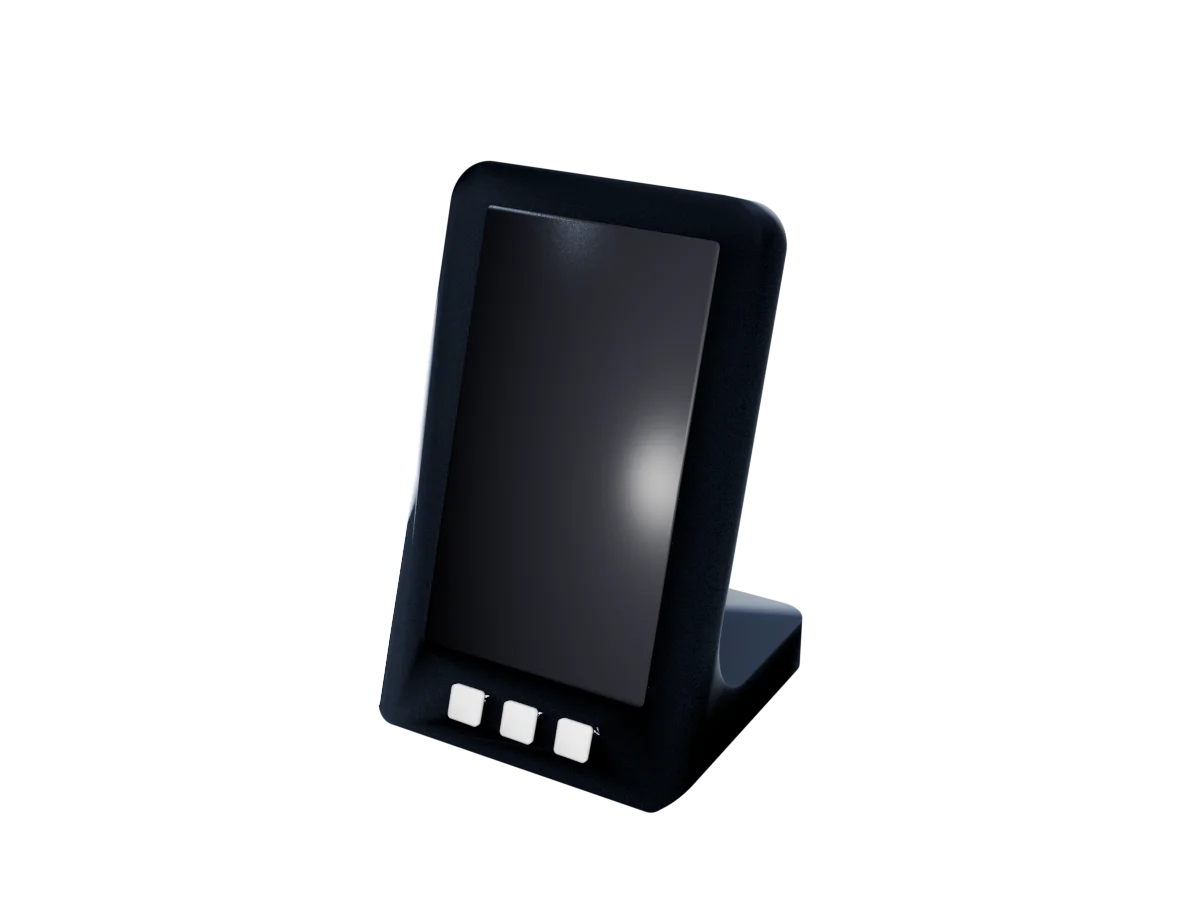
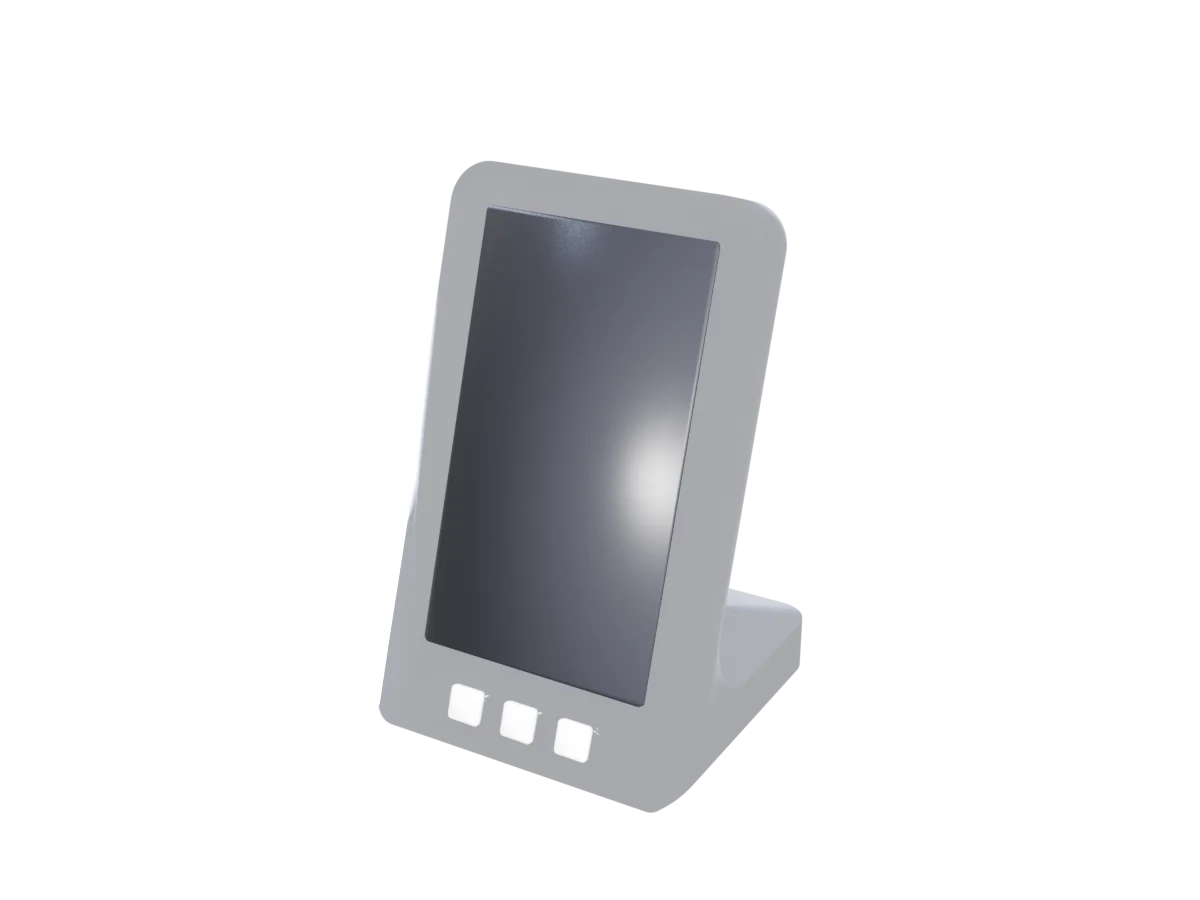
assets: fallback poster re-rendered with the matte grey casing and neutral world light

Changed region(s): [[0.3083, 0.1556, 0.6783, 0.9022]]

diff --git a/assets-source/tools/render-poster.py b/assets-source/tools/render-poster.py
@@ -32,8 +32,16 @@ direction = Vector((0.32, -0.55, 0.28))
 cam.location = center + direction
 cam.rotation_euler = (-direction).to_track_quat('-Z', 'Y').to_euler()
 sc.camera = cam
-key = bpy.data.objects.new('Key', bpy.data.lights.new('Key', 'AREA')); key.data.energy = 60; key.location = (0.4, -0.4, 0.6); sc.collection.objects.link(key)
-rim = bpy.data.objects.new('Rim', bpy.data.lights.new('Rim', 'AREA')); rim.data.energy = 30; rim.data.color = (0.5, 0.61, 0.91); rim.location = (-0.5, 0.3, 0.4); sc.collection.objects.link(rim)
+key = bpy.data.objects.new('Key', bpy.data.lights.new('Key', 'AREA')); key.data.energy = 220; key.location = (0.4, -0.4, 0.6); sc.collection.objects.link(key)
+rim = bpy.data.objects.new('Rim', bpy.data.lights.new('Rim', 'AREA')); rim.data.energy = 60; rim.data.color = (0.5, 0.61, 0.91); rim.location = (-0.5, 0.3, 0.4); sc.collection.objects.link(rim)
+# Luz ambiente neutra: sin mundo iluminado la carcasa gris salía casi negra
+# aunque el material ya fuera gris (solo la tocaba el key light lateral).
+world = bpy.data.worlds.new('PosterWorld') if not sc.world else sc.world
+sc.world = world; world.use_nodes = True
+bg = world.node_tree.nodes.get('Background')
+if bg:
+    bg.inputs['Color'].default_value = (0.62, 0.64, 0.68, 1.0)
+    bg.inputs['Strength'].default_value = 0.9
 sc.render.engine = 'BLENDER_EEVEE'; sc.render.film_transparent = True
 sc.render.resolution_x = 1200; sc.render.resolution_y = 900
 sc.render.image_settings.file_format = 'WEBP'; sc.render.image_settings.quality = 85
